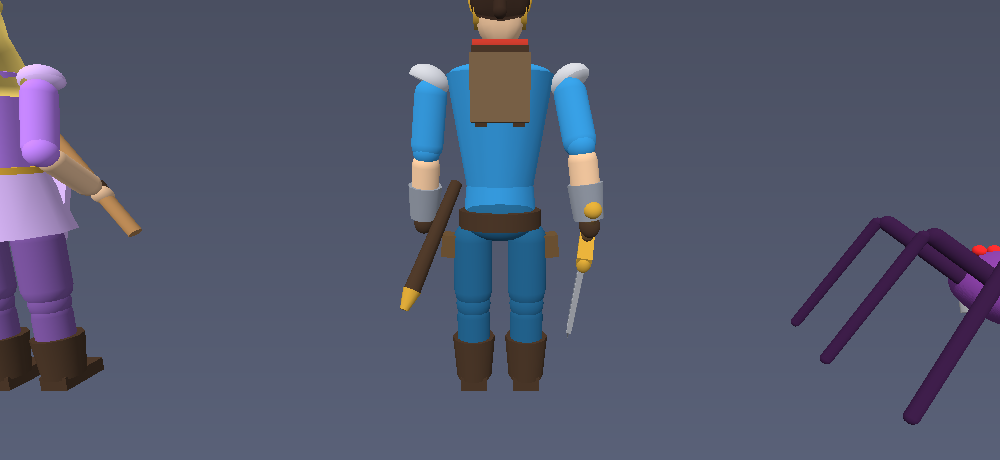
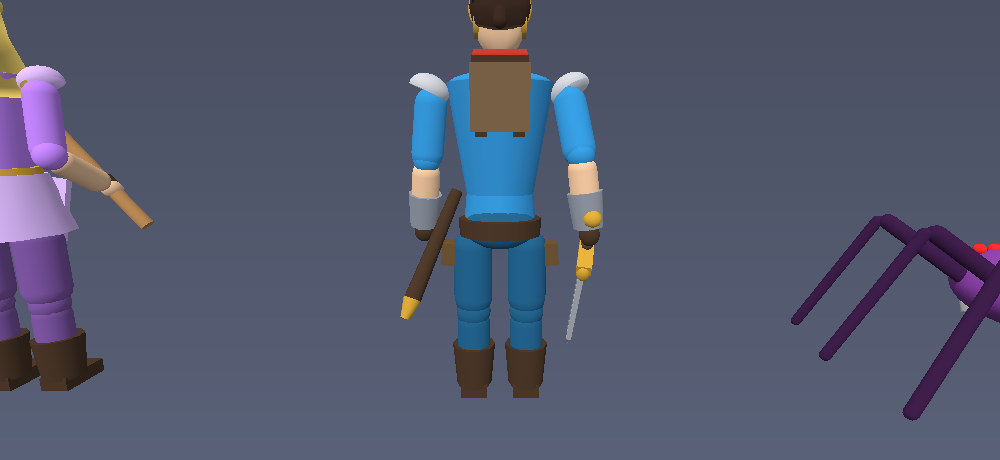
Тайминг замаха, шаг бега, локоть Елены, палка в теле Рюдо
- КОРИЧНЕВАЯ ПАЛКА в теле — портупея. Я сам её перелинил до 1.24: она
  торчала на 0.12 ниже пояса и на 0.04 выше нагрудника, а при толщине
  0.05 читалась плоской доской. Укорочена до 0.92 и утолщена до 0.09.
  Виноват был и тест: он ТРЕБОВАЛ длину >1.2 корпуса, то есть закреплял
  этот перелёт. Порог исправлен, добавлена проверка «не ниже пояса».

- ЗАМАХ НЕ УСПЕВАЛ. Боевая система била на WINDUP_SECONDS = 0.12 с, а
  клинку нужно 0.15 с до верхней точки — удар случался раньше, чем рука
  поднималась. Теперь WINDUP_SECONDS выводится из длительности анимации
  (0.62 от неё = 0.26 с), запас 0.11 с.

- БЕГ был ускоренным и смешным: шаг 58 % роста при 6.2 шага/с — вдвое
  чаще человека. Стало 83 % и 4.65 шага/с. Пробовал 98 % — на рендере
  обе ноги отрывались от земли, получался прыжок в шпагате.

- ЛОКОТЬ ЕЛЕНЫ уходил за спину (z=-0.12) при кисти впереди (+0.29).
  Полный разворот руки пробовал — он делает замах нерешаемым (47 000
  вариантов, ни одного с целым хватом и чистым телом), поэтому правка
  точечная: локоть вышел на z=-0.05, отступ от корпуса 0.176.

Честно: перефазировка анимации (WINDUP_END 0.42->0.34), которую я сделал
по дороге, на тайминг НЕ влияла — со старыми фазами запас тоже был
(0.077 с). Чинил именно WINDUP_SECONDS.

Тест тайминга сперва был пустышкой: он дублировал 0.62 константой, и
мутация «вернуть 0.12» проходила молча. Теперь читает значение из
BattleSystem.js.

diff --git a/src/render/Animator.js b/src/render/Animator.js
@@ -49,12 +49,12 @@ export const STAFF_POSES = {
         shoulderLX: -0.07, shoulderLZ: 0.00, elbowL: 1.29,
     },
     castSelf: {
-        shoulderRX: -0.44, shoulderRZ: -0.30, elbowR: -0.60, wrist: 0.82,
-        shoulderLX: -0.70, shoulderLZ: 0.00, elbowL: 1.29,
+        shoulderRX: -0.22, shoulderRZ: -0.33, elbowR: -0.93, wrist: 1.16,
+        shoulderLX: -0.97, shoulderLZ: 0.00, elbowL: 1.63,
     },
     windup: {
-        shoulderRX: -0.70, shoulderRZ: 0.50, elbowR: -0.30, wrist: 0.47,
-        shoulderLX: -0.38, shoulderLZ: 0.00, elbowL: 0.67,
+        shoulderRX: -0.34, shoulderRZ: 0.70, elbowR: -0.53, wrist: 0.60,
+        shoulderLX: -0.25, shoulderLZ: 0.00, elbowL: 0.60,
     },
     // Проводка: посох выносится ВПЕРЁД от корпуса.
     strike: {
@@ -71,15 +71,15 @@ const BLINK_SECONDS = 0.13;
 const BLINK_STRETCH = 5.5;
 const BLINK_DROP = 0.035;
 
-const STEP_LENGTH = 1.8;
+const STEP_LENGTH = 2.4;
 
 // Размах бедра и подъём колена на бегу. Подобраны замером: шаг 1.74 при
 // росте 3.09 (56 %), проскальзывание стопы 0.94. Прежние 0.85/0.9 давали
 // семенящий шаг в 38 % роста — «ножками дрыгает, а не отталкивается».
 // Выше 1.2 рад мах превращается в прыжок в шпагате: обе ноги отрываются
 // от земли одновременно.
-const LEG_SWING = 1.0;
-const KNEE_LIFT = 0.8;
+const LEG_SWING = 1.15;
+const KNEE_LIFT = 0.7;
 
 // Предел прироста пути за секунду: чуть выше боевой скорости (11.13 ед/с).
 const MAX_STEP_ADVANCE = 14;
@@ -304,8 +304,12 @@ export class Animator {
         // замах (anticipation) -> резкий рубящий удар -> возврат. Раньше
         // «удар» линейно растягивался на 65% времени и выглядел вялым.
         const swingP = 1 - state.swing;                       // 0 -> 1
-        const WINDUP_END = 0.42;   // занос: долгий, чтобы читался
-        const STRIKE_END = 0.62;   // сам удар: короткий и быстрый
+        // Занос должен ЗАКОНЧИТЬСЯ раньше, чем боевая система засчитает
+        // попадание (WINDUP_SECONDS = 0.62 * длительности). При прежних
+        // 0.42/0.62 клинок доходил до верхней точки ровно в момент удара —
+        // замах не успевал прочитаться.
+        const WINDUP_END = 0.34;   // занос: быстрее, чтобы успеть
+        const STRIKE_END = 0.56;   // сам удар: короткий и быстрый
 
         // Занос замедляется к концу — оружие «зависает» перед ударом.
         const windupRaw = Math.min(1, swingP / WINDUP_END);

diff --git a/src/render/models.js b/src/render/models.js
@@ -212,14 +212,18 @@ export function createHumanoid(scene, {
         plate.material = steelDark;
 
         // Ремень через грудь — за спиной ножны.
-        // Портупея идёт ОТ ПЛЕЧА К БЕДРУ. Прежний ремень был вдвое короче
-        // (0.8) и висел серединой на животе: получалось коричневое пятно,
-        // не связанное ни с плечом, ни с поясом.
+        // Портупея идёт от плеча к поясу и ЗАКАНЧИВАЕТСЯ на нём. Прежние
+        // 1.24 были перелётом: ремень торчал на 0.12 ниже пояса и на 0.04
+        // выше нагрудника — снизу он читался отдельной коричневой палкой,
+        // висящей в теле.
+        //
+        // Толщину тоже увеличили: при 0.05 это была плоская доска, у
+        // которой с бока виден только торец.
         const strap = track(MeshBuilder.CreateBox(`${id}_strap`, {
-            width: 0.11, height: 1.24, depth: 0.05,
+            width: 0.1, height: 0.92, depth: 0.09,
         }, scene));
         strap.parent = torso;
-        strap.position.set(0.02, 0.42, 0.14);
+        strap.position.set(0.04, 0.51, 0.13);
         strap.rotation.z = 0.42;
         strap.material = leatherLight;
 
@@ -849,7 +853,11 @@ export function createHumanoid(scene, {
         // ради женского силуэта, стойка развалилась: левый локоть уезжал
         // через грудь на x=-0.05, и руки читались обрубками. Разнос плеч
         // возвращён к 0.5 для обоих, женственность даёт талия и таз.
-        shoulderR.rotation.x = 0.23;
+        // Локоть отведён от тела и не заломлен назад. Полный разворот руки
+        // пробовал — он делает замах нерешаемым (47 000 вариантов, ни
+        // одного с целым хватом и чистым телом), поэтому правка точечная:
+        // плечо чуть вперёд по X, остальное как было.
+        shoulderR.rotation.x = 0.10;
         shoulderR.rotation.z = 0.05;
         elbowR.rotation.x = -1.14;
         weaponPivot.rotation.set(1.10, -0.80, -0.10);

diff --git a/src/system/BattleSystem.js b/src/system/BattleSystem.js
@@ -44,7 +44,12 @@ const PARALYSIS_SKIP_CHANCE = 0.5;
 
 const AI_THINK_SECONDS = 0.45;
 const HIT_RECOVERY_SECONDS = 0.35; // пауза между ударами комбо
-const WINDUP_SECONDS = 0.12;       // замах перед первым ударом
+// Замах перед первым ударом. Должен совпадать с САМОЙ АНИМАЦИЕЙ: занос
+// в аниматоре занимает 42 % длительности (WINDUP_END), а удар приходится
+// на 62 % (STRIKE_END). При 0.12 с клинок не успевал подняться — попадание
+// случалось раньше, чем рука доходила до верхней точки.
+const SWING_ANIM_SECONDS = 0.42;   // должно совпадать с Animator.SWING_SECONDS
+const WINDUP_SECONDS = SWING_ANIM_SECONDS * 0.62;
 
 // Порядок команд в кольце — как в оригинале.
 const COMMAND_CATEGORIES = ['basic', 'move', 'magic', 'item', 'defense'];

diff --git a/ARCHITECTURE.md b/ARCHITECTURE.md
@@ -139,11 +139,11 @@
 
 ## 6. Тесты
 
-`npm test` — 153 теста, без браузера:
+`npm test` — 154 теста, без браузера:
 
 - `tests/battle.test.mjs` (57) — логика боя на заглушках: инварианты HP, отсутствие зависаний, Cancel, Endure, стоимость ресурсов, ограничение дельты, а также перенесённые механики (яд, сон, контрудары, стихии, предметы, воскрешение, печати, групповые атаки, полоса линейного приёма, круг охвата групповых, прицеливание каста и проходимость всех составов боя). Тест на исход боя не требует победы — он проверяет отсутствие зависаний на 12 сидах; победа при внимательной игре и длительность боя вынесены в отдельные тесты с фиксированным RNG.
 - `tests/ui.test.mjs` (14) — реальный `UIController` в jsdom: HP-бары, выбор цели, отсутствие утечки стилей, экран исхода.
-- `tests/models.test.mjs` (75) — модели и анимация на настоящем Babylon (`NullEngine`): сборка ригов, реакция поз на анимацию, устойчивость к большой дельте кадра, габариты и посадка на пол в покое, на бегу и после смерти, траектория клинка при ударе и фазы каста, снятие подсветки при ударах внахлёст, единство меша головы и её пропорции, двуручный хват посоха и три режима каста, геометрия полосы удара.
+- `tests/models.test.mjs` (76) — модели и анимация на настоящем Babylon (`NullEngine`): сборка ригов, реакция поз на анимацию, устойчивость к большой дельте кадра, габариты и посадка на пол в покое, на бегу и после смерти, траектория клинка при ударе и фазы каста, снятие подсветки при ударах внахлёст, единство меша головы и её пропорции, двуручный хват посоха и три режима каста, геометрия полосы удара.
 - `tests/integration.test.mjs` (7) — полная связка Babylon `NullEngine` + jsdom: бой играется от начала до конца (~5600 кадров) и проверяется отсутствие ошибок в консоли.
 
 Тесты проверены мутационно: каждый ключевой тест падает, если соответствующий баг вернуть в код.
